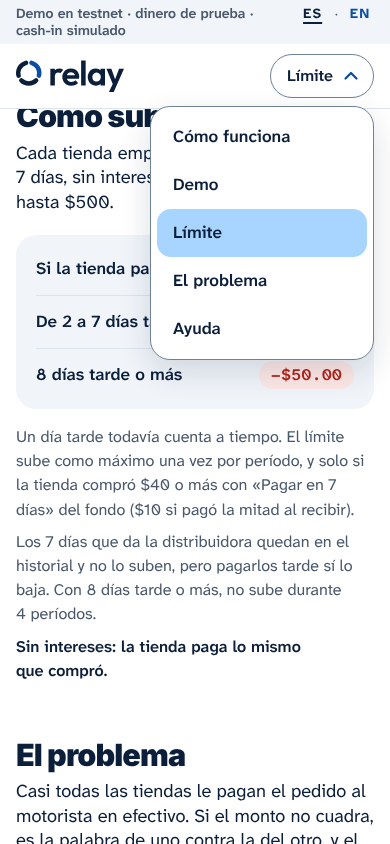
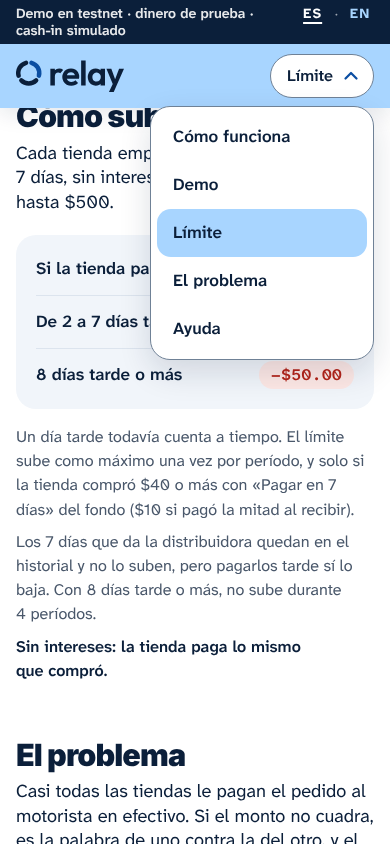
Home: first screen fades into the page, bar stays light blue, dark navy demo band (#212)
Claude-Session: https://claude.ai/code/session_012ShQukY565b6Ed76kj7NKX

Changed region(s): [[0.0, 0.0, 1.0, 0.154]]

diff --git a/components/kit/band.tsx b/components/kit/band.tsx
@@ -13,7 +13,7 @@ export function LangSwitch() {
       aria-label={name}
       lang={value}
       className={`relative h-4 min-w-11 px-2 text-label/4 font-bold tracking-[0.08em] before:absolute before:inset-x-0 before:-top-3 before:-bottom-4 gloves:min-w-[56px] gloves:before:-top-4 gloves:before:-bottom-6 ${
-        lang === value ? "text-ink underline decoration-2 underline-offset-4" : "text-brand"
+        lang === value ? "text-white underline decoration-2 underline-offset-4" : "text-accent"
       }`}
     >
       {label}
@@ -23,7 +23,7 @@ export function LangSwitch() {
     // One line tall, so the band's words run under it from their second line on. Each button's tap area reaches past its letters (44 px).
     <div role="group" aria-label="Idioma / Language" className="float-right -mr-2 ml-3 flex h-4 items-center text-label/4">
       {option("es", "ES", "Español")}
-      <span aria-hidden className="text-muted gloves:px-1">
+      <span aria-hidden className="text-white/60 gloves:px-1">
         ·
       </span>
       {option("en", "EN", "English")}
@@ -39,12 +39,12 @@ export function LangSwitch() {
 export function TestnetBand() {
   const { t } = useT();
   return (
-    <div className="sticky top-0 z-5 bg-paper pt-[env(safe-area-inset-top)]">
+    <div className="sticky top-0 z-5 bg-ink pt-[env(safe-area-inset-top)]">
       <div className="flex min-h-(--band-h) items-center py-1 pl-[max(var(--gutter),env(safe-area-inset-left))] pr-[max(var(--gutter),env(safe-area-inset-right))]">
         {/* The switch floats at the end of the first line: on a phone the words get the whole width for their second line. */}
         <div className="flow-root w-full">
           <LangSwitch />
-          <p className="text-label/[1.25] font-semibold text-muted">
+          <p className="text-label/[1.25] font-semibold text-white/90">
             {t("Demo en testnet · dinero de prueba · cash-in simulado", "Testnet demo · test money · simulated cash-in")}
           </p>
         </div>

diff --git a/app/home-nav.tsx b/app/home-nav.tsx
@@ -5,8 +5,8 @@ import { useEffect, useRef, useState } from "react";
 import { Logo } from "@/components/logo";
 import { useT } from "@/lib/i18n";
 
-// The home page's bar (Wise.com style): it stays at the top while you scroll. Over the first screen it is the same
-// light blue; once you scroll it turns white with a hairline. On the right it says where you are and takes you to
+// The home page's bar (Wise.com style): it stays at the top while you scroll. It is always the same light blue as the
+// first screen; once you scroll it gets a soft shadow so the page slides under it. On the right it says where you are and takes you to
 // each part: every part as a pill on a laptop, one pill with a small menu on a phone.
 
 const PARTS = [
@@ -81,7 +81,7 @@ export function HomeNav() {
   }, [menu]);
 
   return (
-    <header className={`sticky top-(--band-h) z-4 transition-[background-color,box-shadow] duration-200 ${scrolled ? "bg-white shadow-[0_1px_0_var(--color-paper-rule)]" : "bg-accent"}`}>
+    <header className={`sticky top-(--band-h) z-4 transition-[box-shadow] duration-200 bg-accent ${scrolled ? "shadow-[0_6px_20px_rgb(11_31_58/0.10)]" : ""}`}>
       <div className="mx-auto flex min-h-16 w-full max-w-[calc(28rem+2*var(--gutter))] items-center justify-between gap-3 pr-[max(var(--gutter),env(safe-area-inset-right))] pl-[max(var(--gutter),env(safe-area-inset-left))] min-[40rem]:max-w-[calc(64rem+2*var(--gutter))]">
         <Link
           href="/"

diff --git a/app/page.tsx b/app/page.tsx
@@ -154,10 +154,10 @@ export default function Home() {
   return (
     <>
       <main className="flex w-full flex-1 flex-col">
-        {/* The bar stays at the top of the page (it is light blue over the first screen, white after it). */}
+        {/* The bar stays at the top of the page, always light blue. */}
         <HomeNav />
-        {/* The first screen: all light blue. */}
-        <div className="flex min-h-[calc(100svh-var(--band-h)-4rem)] flex-col bg-accent">
+        {/* The first screen: all light blue, fading into the white page at its foot so the two blend. */}
+        <div className="flex min-h-[calc(100svh-var(--band-h)-4rem)] flex-col bg-[linear-gradient(to_bottom,var(--color-accent)_calc(100%-9rem),var(--color-counter))]">
           <section className={`${SIDE} flex flex-1 flex-col justify-center pt-6 pb-14 min-[40rem]:pb-20`}>
             <div className={`${COLUMN} flex flex-col gap-5`}>
               <p className="text-base font-semibold text-ink/80">
